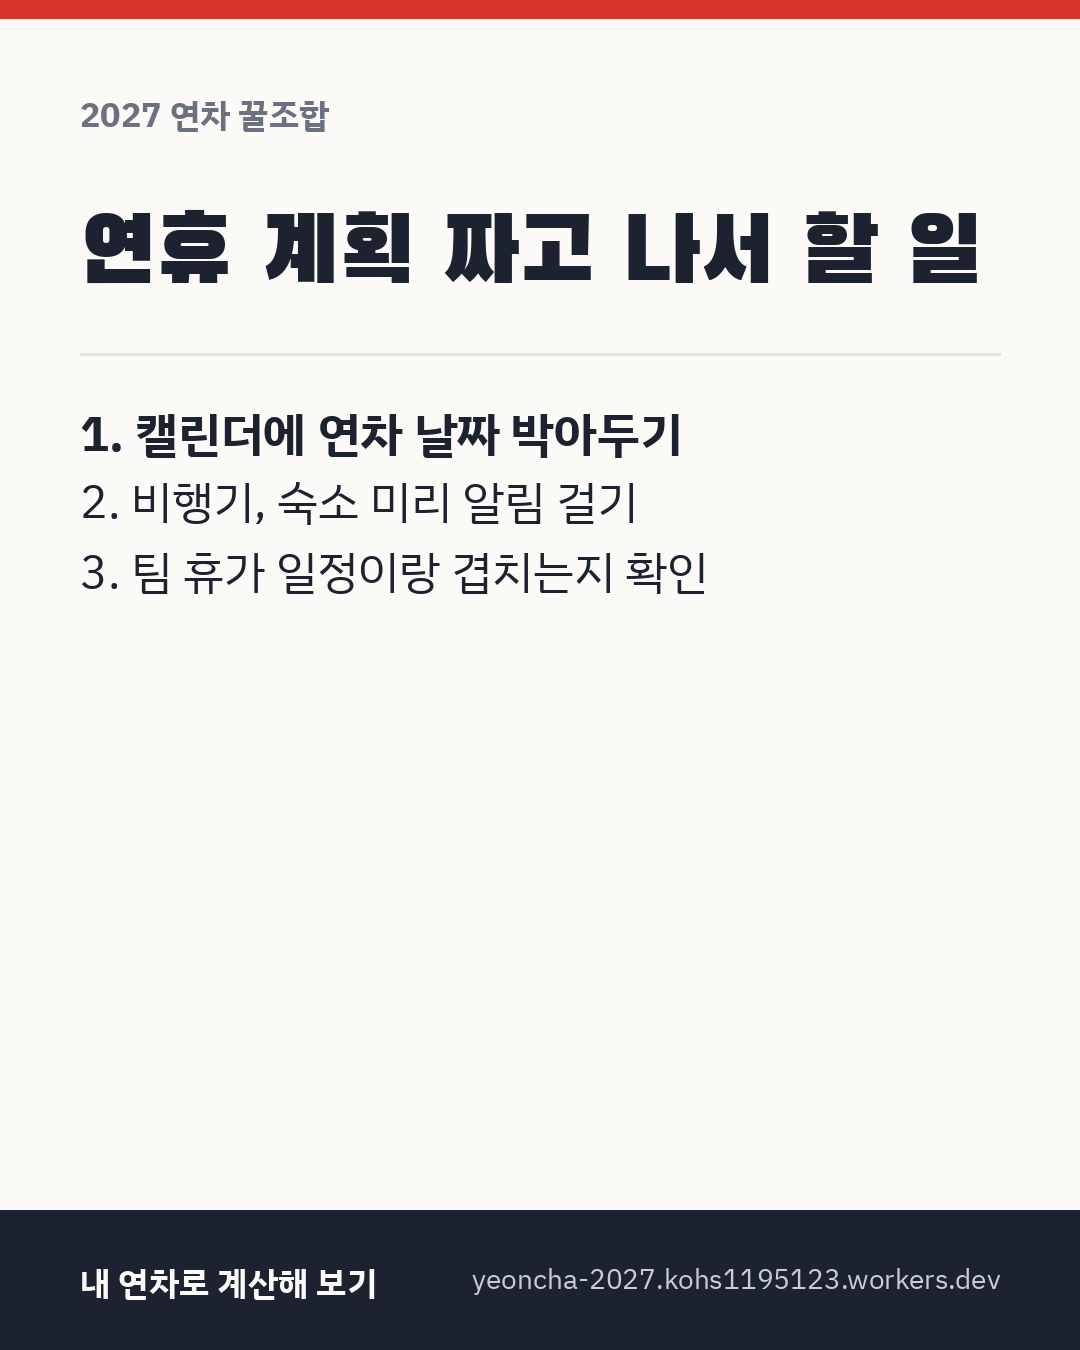
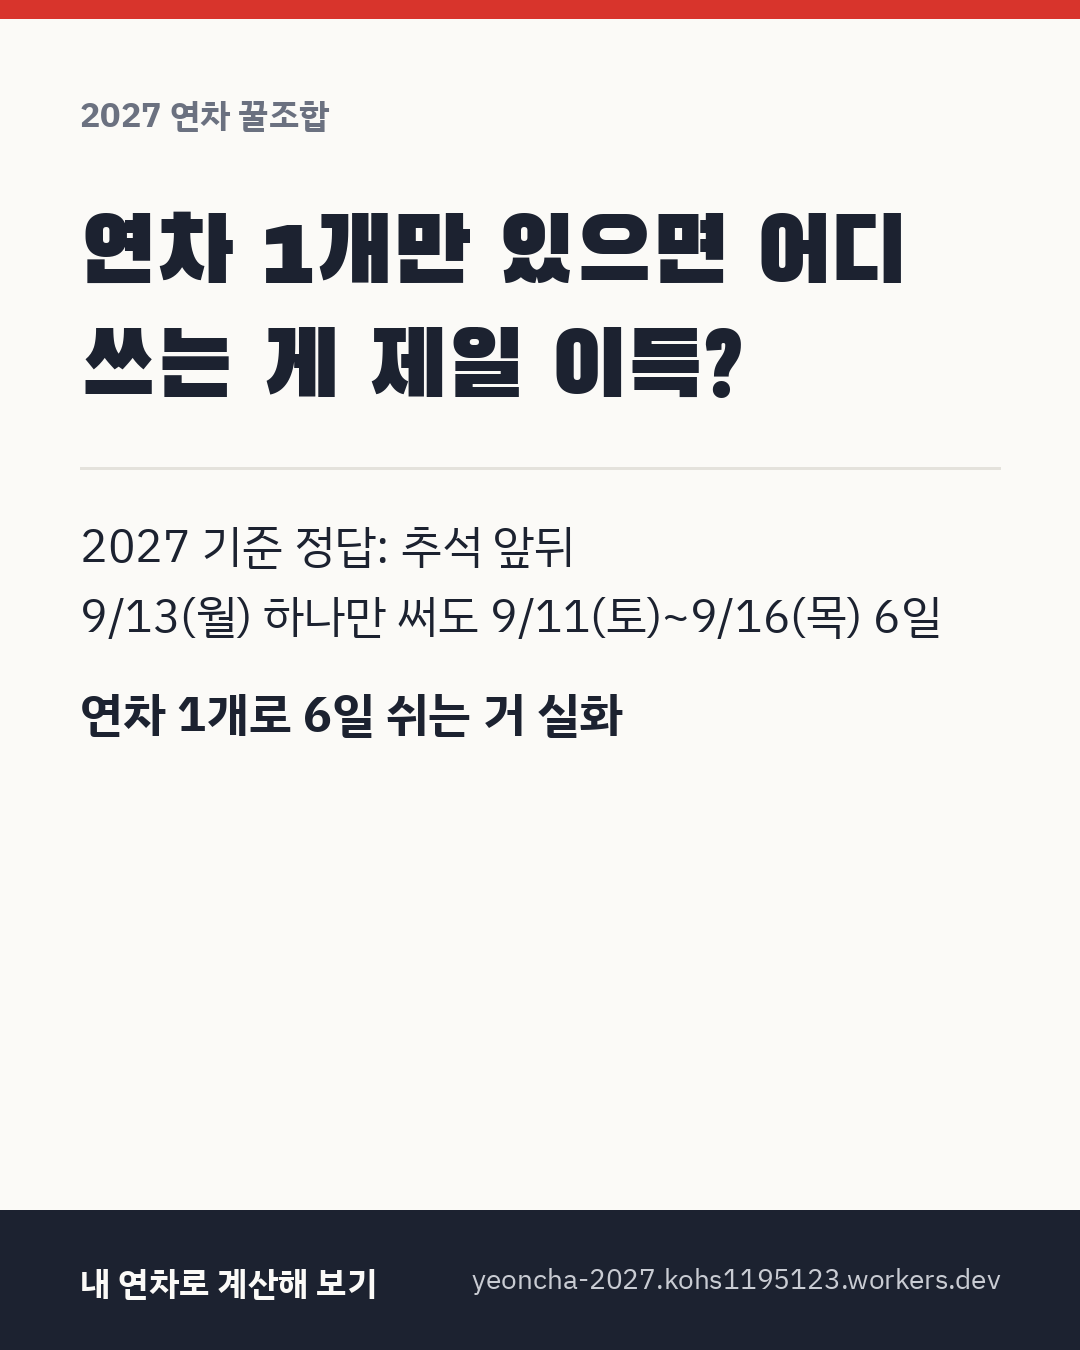
Threads: post with card images, links in first reply
Posts now go up as image posts with the matching card, and the calculator
and product links move to a reply, since link posts get less reach.
Cards are regenerated for every Korean and English post.

Claude-Session: https://claude.ai/code/session_013pH7tDgAjMiDnf6YE2XYq6

diff --git a/threads/make_cards.py b/threads/make_cards.py
@@ -1,4 +1,4 @@
-"""posts.json의 글마다 인스타용 카드 이미지(1080x1350)를 cards/에 만든다."""
+"""posts.json의 글마다 카드 이미지(1080x1350)를 cards/NN.png에, posts_en.json은 cards/en/NN.png에 만든다."""
 import json
 import os
 
@@ -11,7 +11,10 @@ W, H = 1080, 1350
 PAPER, INK, MUTED, RED, LINE = "#fbfaf7", "#1c2230", "#6b7180", "#d8342c", "#e4e2dc"
 URL = "yeoncha-2027.kohs1195123.workers.dev"
 
-display = lambda s: ImageFont.truetype(os.path.join(FONTS, "bhs.ttf"), s)
+LANG = {"ko": dict(font="bhs.ttf", brand="2027 연차 꿀조합", cta="내 연차로 계산해 보기", url=URL),
+        "en": dict(font="archivo-black.ttf", brand="2027 PTO HACK", cta="Try your PTO number", url=URL + "/en")}
+FONT = "bhs.ttf"
+display = lambda s: ImageFont.truetype(os.path.join(FONTS, FONT), s)
 body = lambda s: ImageFont.truetype(os.path.join(FONTS, "plex-r.ttf"), s)
 bold = lambda s: ImageFont.truetype(os.path.join(FONTS, "plex-b.ttf"), s)
 
@@ -38,24 +41,29 @@ def wrap(draw, text, font, width):
     return lines
 
 
-def card(text, n, total):
+def card(text, lang="ko"):
+    global FONT
+    L = LANG[lang]
+    FONT = L["font"]
     img = Image.new("RGB", (W, H), PAPER)
     d = ImageDraw.Draw(img)
     d.rectangle([0, 0, W, 18], fill=RED)
-    d.text((80, 90), "2027 연차 꿀조합", font=bold(34), fill=MUTED)
+    d.text((80, 90), L["brand"], font=bold(34), fill=MUTED)
     paras = [p for p in text.split("\n\n") if p.strip()]
     head = paras[0].replace("\n", " ")
-    rest = [p for p in paras[1:] if "workers.dev" not in p and "http" not in p]
+    rest = ["\n".join(l for l in p.split("\n") if "workers.dev" not in l and "gumroad" not in l and "http" not in l) for p in paras[1:]]
+    rest = [p for p in rest if p.strip()]
     y = 210
-    for line in wrap(d, head, display(92), W - 160)[:4]:
-        d.text((80, y), line, font=display(92), fill=INK)
-        y += 114
+    hs = 92 if lang == "ko" else 72
+    for line in wrap(d, head, display(hs), W - 160)[:4]:
+        d.text((80, y), line, font=display(hs), fill=INK)
+        y += hs + 22
     y += 30
     d.line([80, y, W - 80, y], fill=LINE, width=3)
     y += 44
     for p in rest:
         for raw in p.split("\n"):
-            is_key = any(k in raw for k in ("→", "일 연휴", "연차"))
+            is_key = any(k in raw for k in ("→", "일 연휴", "연차", "PTO", "days off"))
             f = bold(48) if is_key else body(46)
             for line in wrap(d, raw, f, W - 160):
                 if y > H - 200:
@@ -64,17 +72,18 @@ def card(text, n, total):
                 y += 70
         y += 26
     d.rectangle([0, H - 140, W, H], fill=INK)
-    d.text((80, H - 92), "내 연차로 계산해 보기", font=bold(34), fill=PAPER)
-    d.text((W - 80, H - 92), URL, font=body(28), fill="#c9ccd3", anchor="ra")
+    d.text((80, H - 92), L["cta"], font=bold(34), fill=PAPER)
+    d.text((W - 80, H - 92), L["url"], font=body(28), fill="#c9ccd3", anchor="ra")
     return img
 
 
 def main():
-    posts = json.load(open(os.path.join(ROOT, "threads", "posts.json"), encoding="utf-8"))
-    os.makedirs(OUT, exist_ok=True)
-    for i, t in enumerate(posts, 1):
-        card(t, i, len(posts)).save(os.path.join(OUT, f"{i:02d}.png"), optimize=True)
-    print(f"{len(posts)}장 생성")
+    for lang, name, out in (("ko", "posts.json", OUT), ("en", "posts_en.json", os.path.join(OUT, "en"))):
+        posts = json.load(open(os.path.join(ROOT, "threads", name), encoding="utf-8"))
+        os.makedirs(out, exist_ok=True)
+        for i, t in enumerate(posts, 1):
+            card(t, lang).save(os.path.join(out, f"{i:02d}.png"), optimize=True)
+        print(f"{lang}: {len(posts)}장 생성")
 
 
 if __name__ == "__main__":

diff --git a/threads/post_social.py b/threads/post_social.py
@@ -30,10 +30,44 @@ def post(url, params):
         raise RuntimeError(f"{url} 실패: {e.read().decode(errors='replace')}") from None
 
 
-def to_threads(text, token):
-    c = post(f"{THREADS_API}/me/threads", {"media_type": "TEXT", "text": text, "access_token": token})
-    time.sleep(5)
+LINKS = {
+    "ko": "내 연차로 계산해 보기 👉 " + SITE + "\n2027 연차 다이어리 👉 https://kohs1195.gumroad.com/l/yeoncha2027",
+    "en": "Try your PTO number 👉 " + SITE + "/en/\n2027 PTO planner 👉 https://kohs1195.gumroad.com/l/pto-2027",
+}
+
+
+def get(url):
+    with urllib.request.urlopen(url, timeout=60) as r:
+        return json.load(r)
+
+
+def publish(params, token):
+    c = post(f"{THREADS_API}/me/threads", {**params, "access_token": token})
+    for _ in range(12):  # 이미지는 처리될 때까지 기다린다
+        time.sleep(5)
+        st = get(f"{THREADS_API}/{c['id']}?fields=status&access_token={token}").get("status")
+        if st == "FINISHED":
+            break
+        if st == "ERROR":
+            raise RuntimeError("Threads 컨테이너 처리 실패")
     return post(f"{THREADS_API}/me/threads_publish", {"creation_id": c["id"], "access_token": token})["id"]
+
+
+def to_threads(text, token, n=None):
+    """본문은 카드 이미지와 함께 링크 없이 올리고, 링크는 첫 답글로 단다 (링크 글은 노출이 줄어서)."""
+    lang = "en" if QUEUE == "en" else "ko"
+    body = "\n".join(l for l in text.split("\n") if "workers.dev" not in l and "gumroad.com" not in l).strip()
+    img = f"{SITE}/cards/{'en/' if lang == 'en' else ''}{n:02d}.png" if n else None
+    try:
+        pid = publish({"media_type": "IMAGE", "image_url": img, "text": body} if img else {"media_type": "TEXT", "text": body}, token)
+    except Exception as e:
+        print(f"이미지 게시 실패, 글만 올려요: {e}")
+        pid = publish({"media_type": "TEXT", "text": body}, token)
+    try:
+        publish({"media_type": "TEXT", "text": LINKS[lang], "reply_to_id": pid}, token)
+    except Exception as e:
+        print(f"링크 답글 실패: {e}")
+    return pid
 
 
 def to_instagram(text, n, token):
@@ -59,7 +93,7 @@ def main():
             print(f"{name}: 올릴 글이 다 떨어졌어요. posts.json에 새 글을 추가해 주세요.")
             continue
         try:
-            pid = to_threads(posts[i], token) if key.startswith("threads") else to_instagram(posts[i], i + 1, token)
+            pid = to_threads(posts[i], token, i + 1) if key.startswith("threads") else to_instagram(posts[i], i + 1, token)
             print(f"{name}: {i + 1}/{len(posts)}번 게시 완료 ({pid})")
             state[key] = i + 1
         except Exception as e:  # 한쪽이 실패해도 다른 쪽은 올린다
